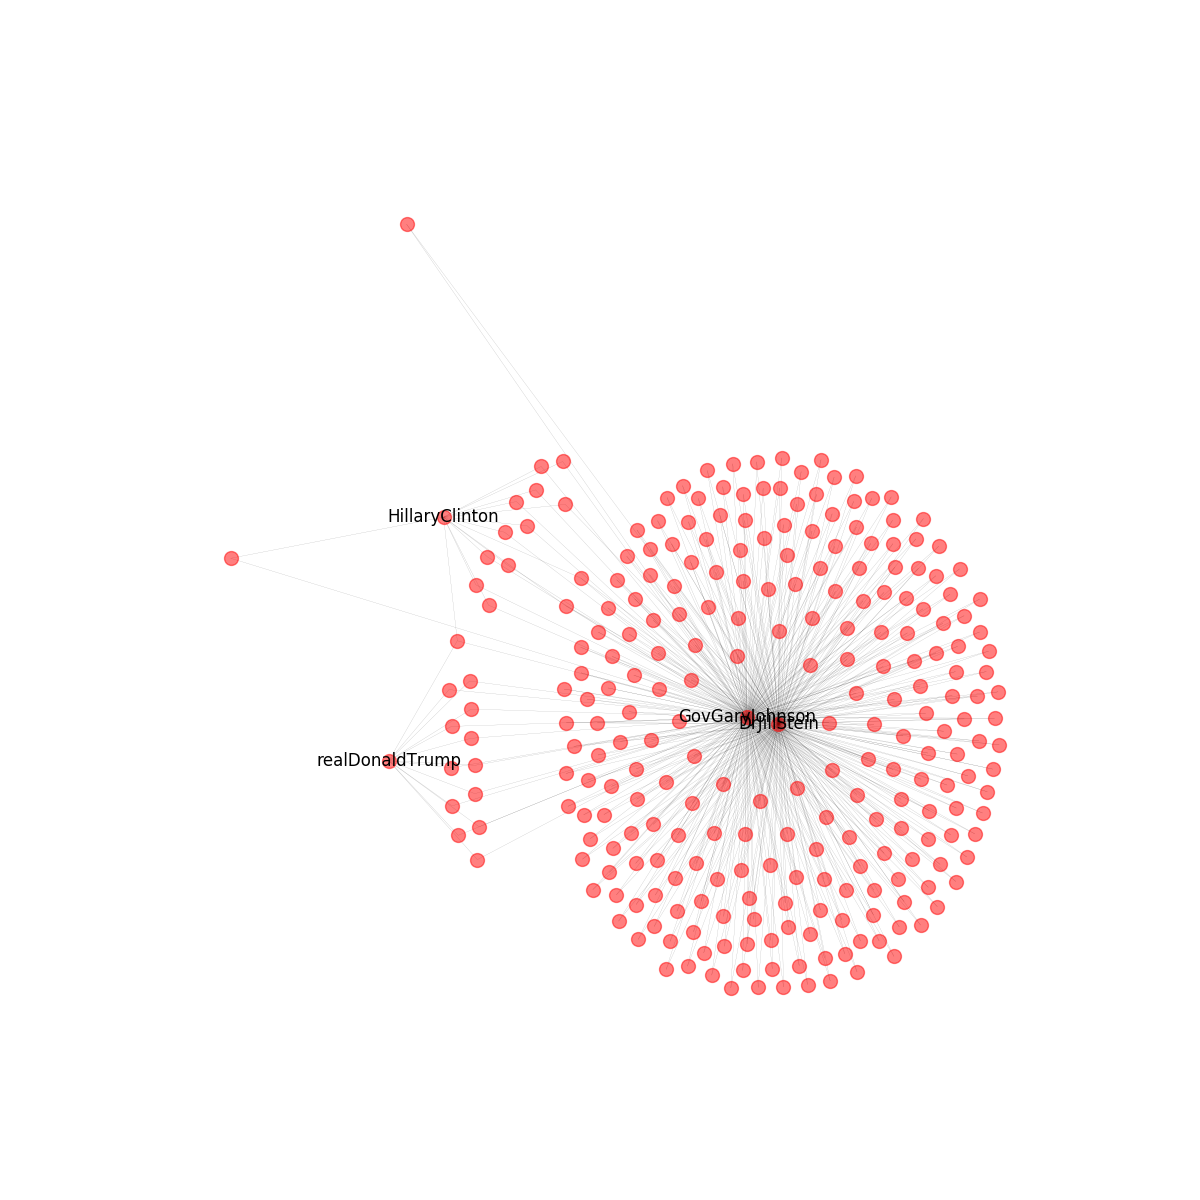
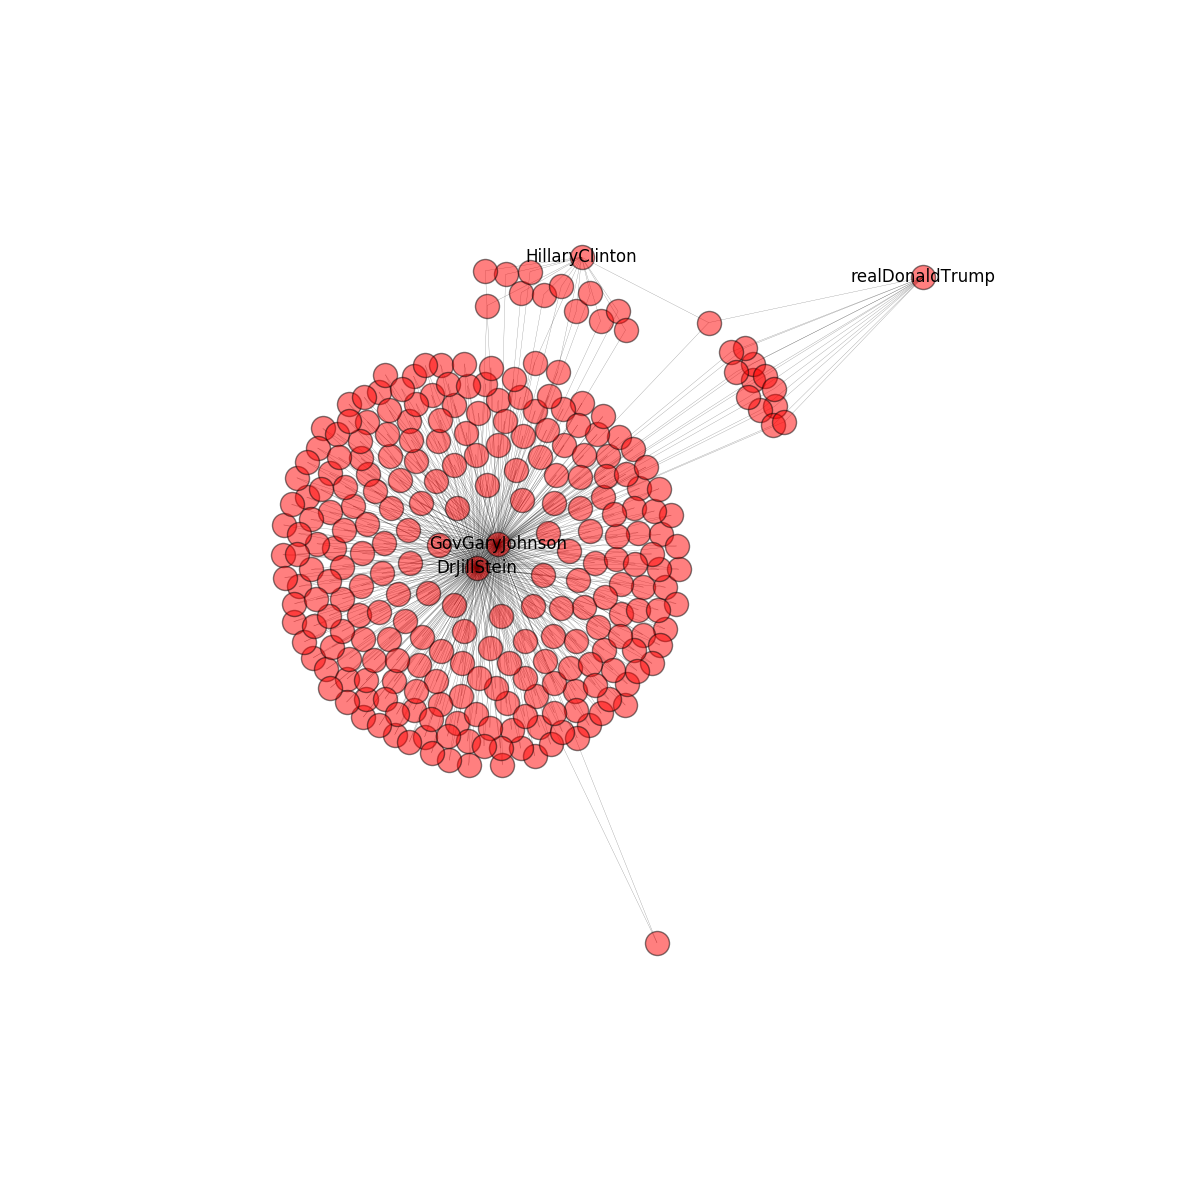
first commit

Changed region(s): [[0.185, 0.185, 0.8325, 0.8325]]

diff --git a/a0/a0.py b/a0/a0.py
@@ -37,10 +37,10 @@ import sys
 import time
 from TwitterAPI import TwitterAPI
 
-consumer_key = 'fixme'
-consumer_secret = 'fixme'
-access_token = 'fixme'
-access_token_secret = 'fixme'
+consumer_key = 'BtO1b9bcP4P9Ra1uYJXqBdix9'
+consumer_secret = 'N5DXG4AiICHt5h1gfMuGciJT21yFlEvPfbFivTJ07etgtU8BFM'
+access_token = '43856450-pHMoGhdowJBhe2yk5afGxAk2TkkNrgPYf64tF49mP'
+access_token_secret = 'EVVqqs3s6LQV8G6OVnJcEwgUAUlzwsaNNfMv2dsRnFtMH'
 
 
 # This method is done for you.
@@ -67,6 +67,10 @@ def read_screen_names(filename):
     ['DrJillStein', 'GovGaryJohnson', 'HillaryClinton', 'realDonaldTrump']
     """
     ###TODO
+    screen_name = open("candidates.txt","r")
+    line=screen_name.readlines()
+    lines= [x.strip() for x in line]
+    return lines
     pass
 
 
@@ -88,10 +92,10 @@ def robust_request(twitter, resource, params, max_tries=5):
         request = twitter.request(resource, params)
         if request.status_code == 200:
             return request
-      #  else:
-         #   print('Got error %s \nsleeping for 15 minutes.' % request.text)
-        #    sys.stderr.flush()
-       #     time.sleep(61 * 15)
+        else:
+            print('Got error %s \nsleeping for 15 minutes.' % request.text)
+            sys.stderr.flush()
+            time.sleep(61 * 15)
 
 
 def get_users(twitter, screen_names):
@@ -113,6 +117,9 @@ def get_users(twitter, screen_names):
     [6253282, 783214]
     """
     ###TODO
+    request = twitter.request('users/lookup', {'screen_name': screen_names})
+    friends = [r for r in request]
+    return friends
     pass
 
 
@@ -138,6 +145,9 @@ def get_friends(twitter, screen_name):
     [695023, 1697081, 8381682, 10204352, 11669522]
     """
     ###TODO
+    request = twitter.request('friends/ids', {'screen_name': screen_name, 'count':5000})
+    friends = [r for r in request]
+    return sorted(friends)
     pass
 
 
@@ -160,6 +170,15 @@ def add_all_friends(twitter, users):
     [695023, 1697081, 8381682, 10204352, 11669522]
     """
     ###TODO
+    for a  in range(len(users)):
+        alist=[]
+        count=0
+
+        r = get_friends(twitter,users[a]['screen_name'])
+        for item in r:
+            alist.append(item)
+        alist.sort()
+        users[a]['friends']=alist
     pass
 
 
@@ -172,6 +191,11 @@ def print_num_friends(users):
         Nothing
     """
     ###TODO
+    for a  in range(len(users)):
+        count=0
+        for item in users[a]['friends']:
+            count+=1
+        print( users[a]['screen_name'],count)
     pass
 
 
@@ -189,6 +213,12 @@ def count_friends(users):
     [(2, 3), (3, 2), (1, 1)]
     """
     ###TODO
+    import collections
+    from collections import Counter  # This is just a fancy dict mapping from object->int, starting at 0.
+    m = Counter()
+    for a in range(len(users)):
+        m.update(users[a]['friends'])
+    return (m)
     pass
 
 
@@ -214,6 +244,23 @@ def friend_overlap(users):
     [('a', 'c', 3), ('a', 'b', 2), ('b', 'c', 2)]
     """
     ###TODO
+    a1=[]
+    count=0
+    from collections import Counter  # This is just a fancy dict mapping from object->int, starting at 0.
+    c = Counter()
+    for a in range(len(users)-1):
+        for x in range(len(users)):
+            if (x>a):
+                c.update(users[a]['friends'])
+                c.update(users[x]['friends'])
+                for i in c:
+                    if c[i] == 2:
+                        count+=1
+                l=(users[a]['screen_name'],users[x]['screen_name'],count)
+                a1.append(l)
+                c.clear()
+                count=0
+    return sorted(a1, key=lambda x:(x[2]),reverse=True)
     pass
 
 
@@ -232,6 +279,20 @@ def followed_by_hillary_and_donald(users, twitter):
         that is followed by both Hillary Clinton and Donald Trump.
     """
     ###TODO
+    from collections import Counter  # This is just a fancy dict mapping from object->int, starting at 0.
+    x = Counter()
+    name=""
+    for a in range(len(users)):
+        if users[a]['screen_name']=='HillaryClinton':
+            x.update(users[a]['friends'])
+        elif users[a]['screen_name']=='realDonaldTrump':
+            x.update(users[a]['friends'])
+    for value,count in Counter(x).most_common(1):
+        name=value
+
+    request= twitter.request('users/lookup', {'user_id':str(name)})
+    for r in request:
+        return (r['screen_name'])
     pass
 
 
@@ -251,6 +312,15 @@ def create_graph(users, friend_counts):
       A networkx Graph
     """
     ###TODO
+    import warnings
+    G = nx.Graph()
+    for user in users:
+        G.add_node(user['screen_name'])
+        for friend in range(len(user['friends'])):
+            if friend_counts[user['friends'][friend]] > 1:
+                G.add_node(user['friends'][friend])
+                G.add_edge(user['friends'][friend],user['screen_name'])
+    return G
     pass
 
 
@@ -265,6 +335,15 @@ def draw_network(graph, users, filename):
     make it look presentable.
     """
     ###TODO
+    user_list={}
+    for user in users:
+        user_list[user['screen_name']]=user['screen_name']
+
+    plt.figure(figsize=(12,12))
+    nx.draw_networkx(graph,labels=user_list,with_labels=True,alpha=.5, width=.2)
+    plt.axis("off")
+    plt.savefig(filename)
+
     pass
 
 
